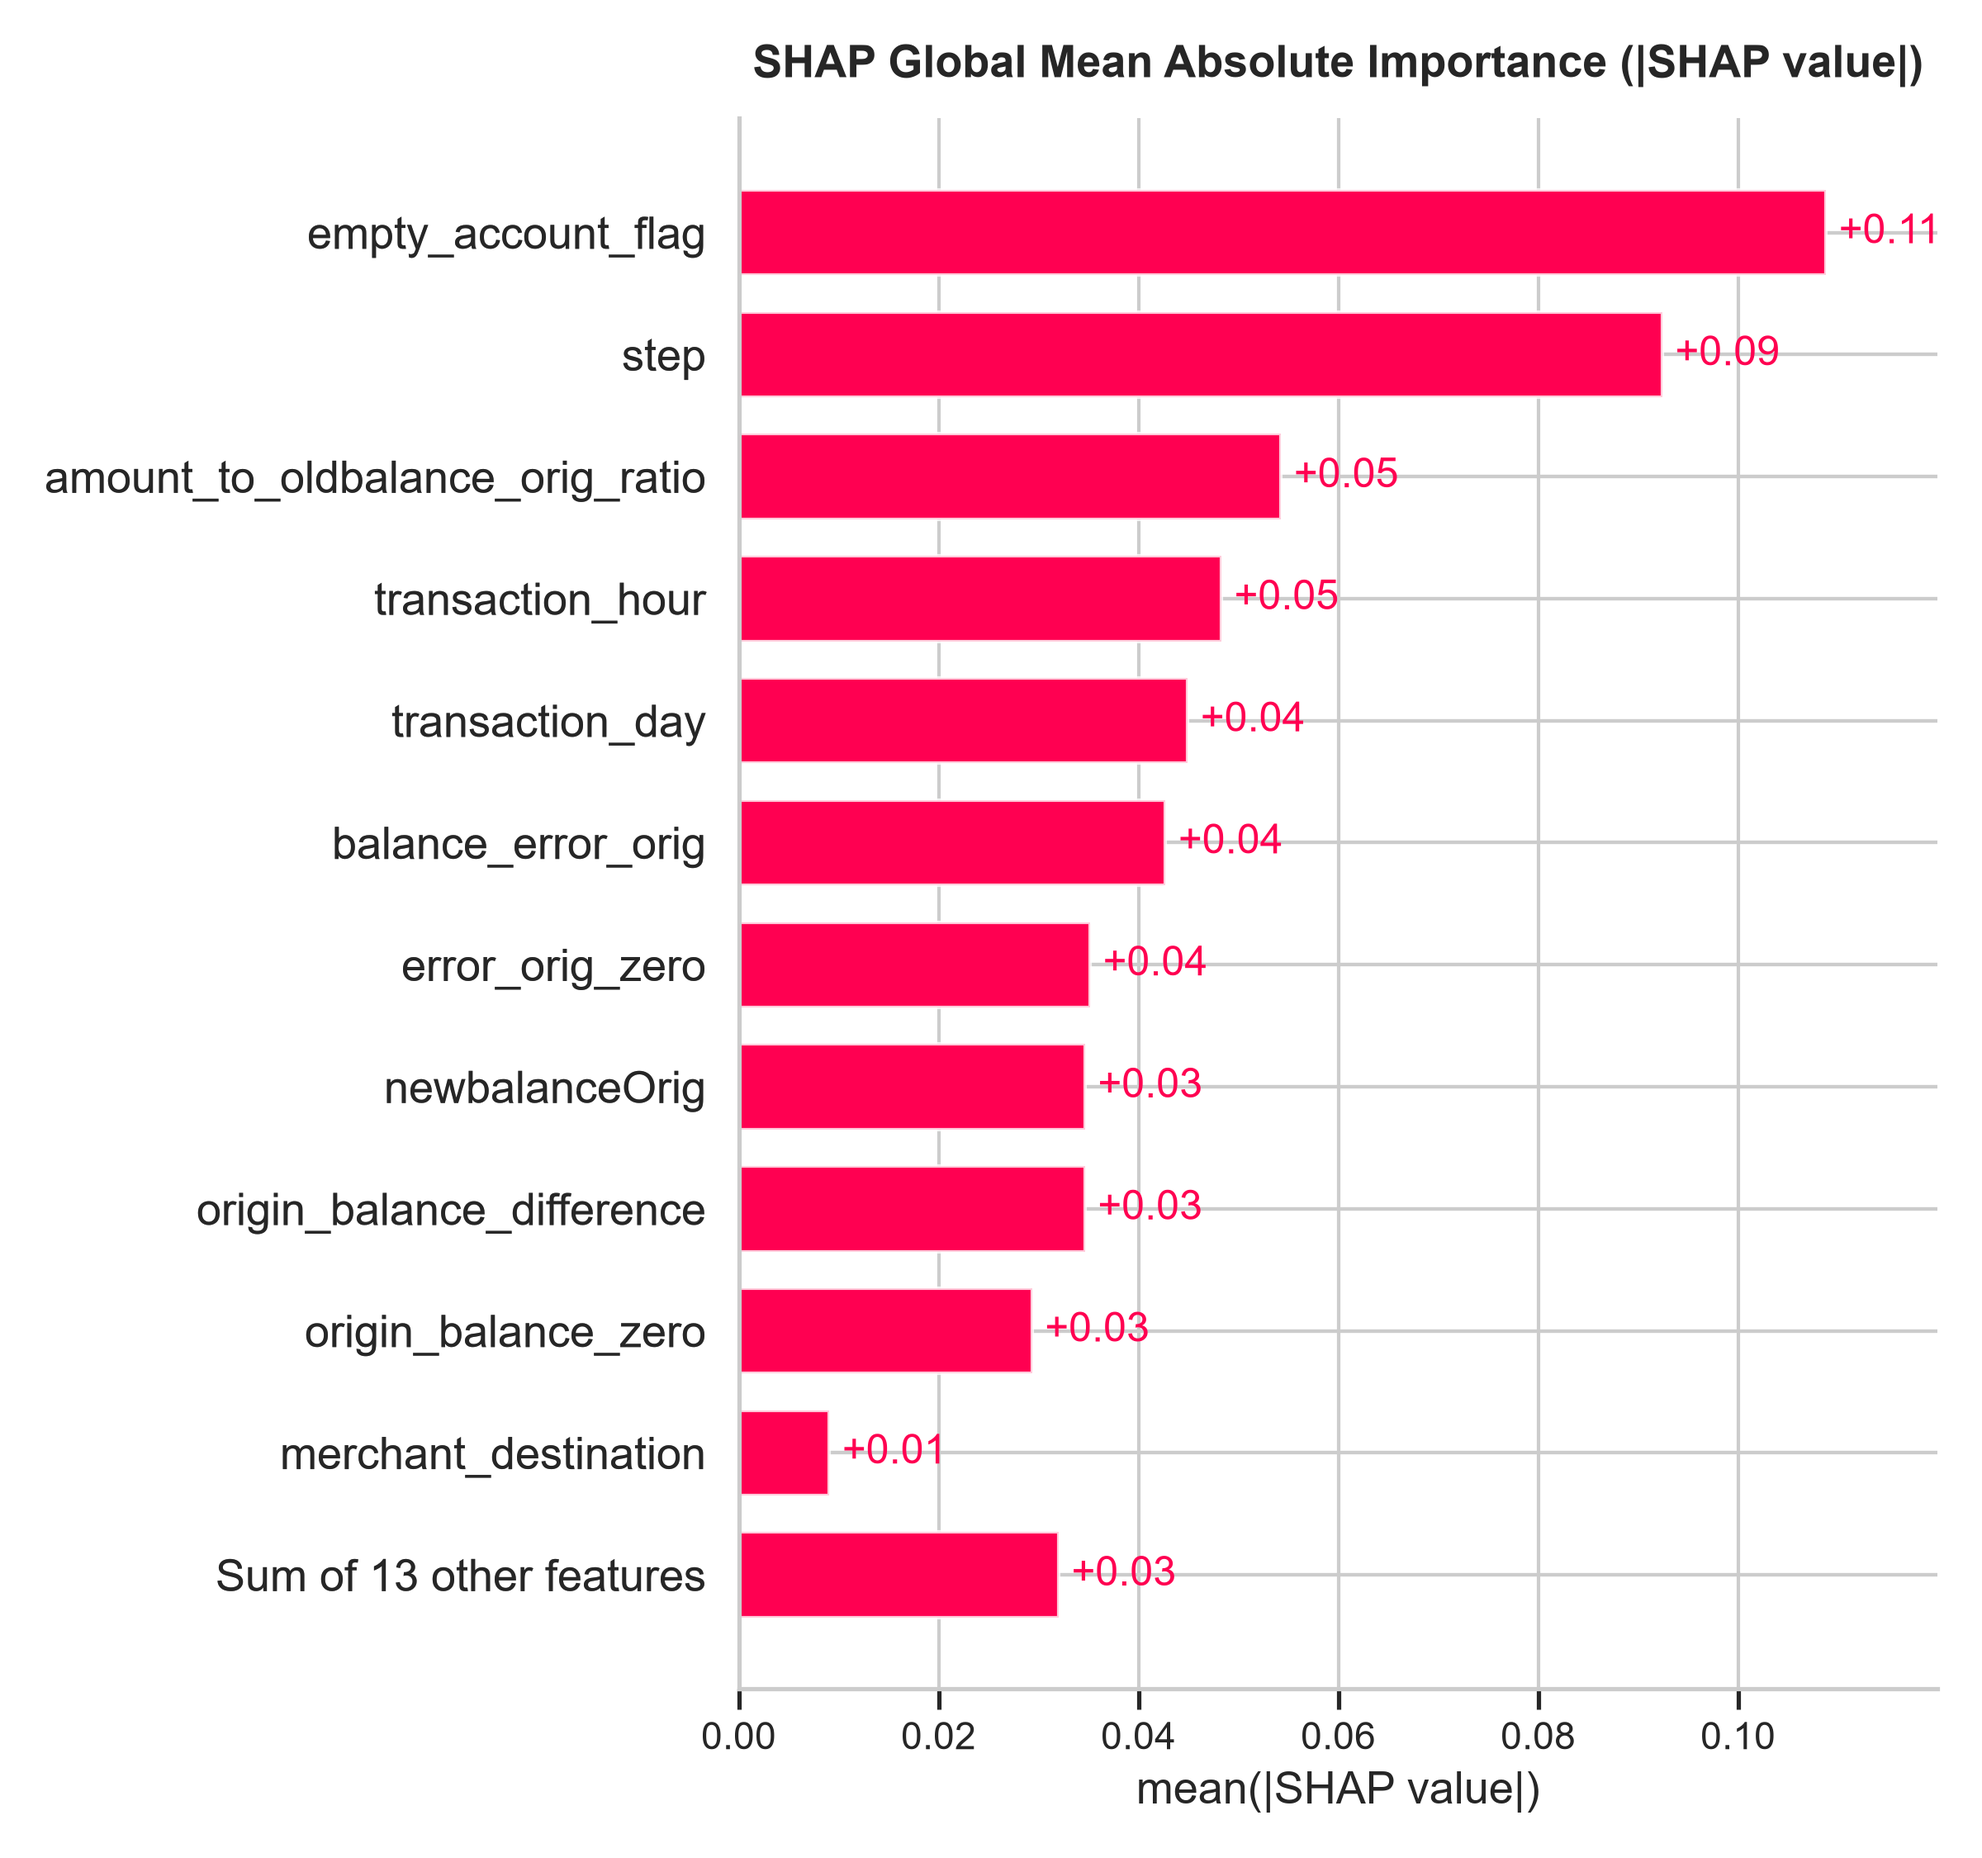
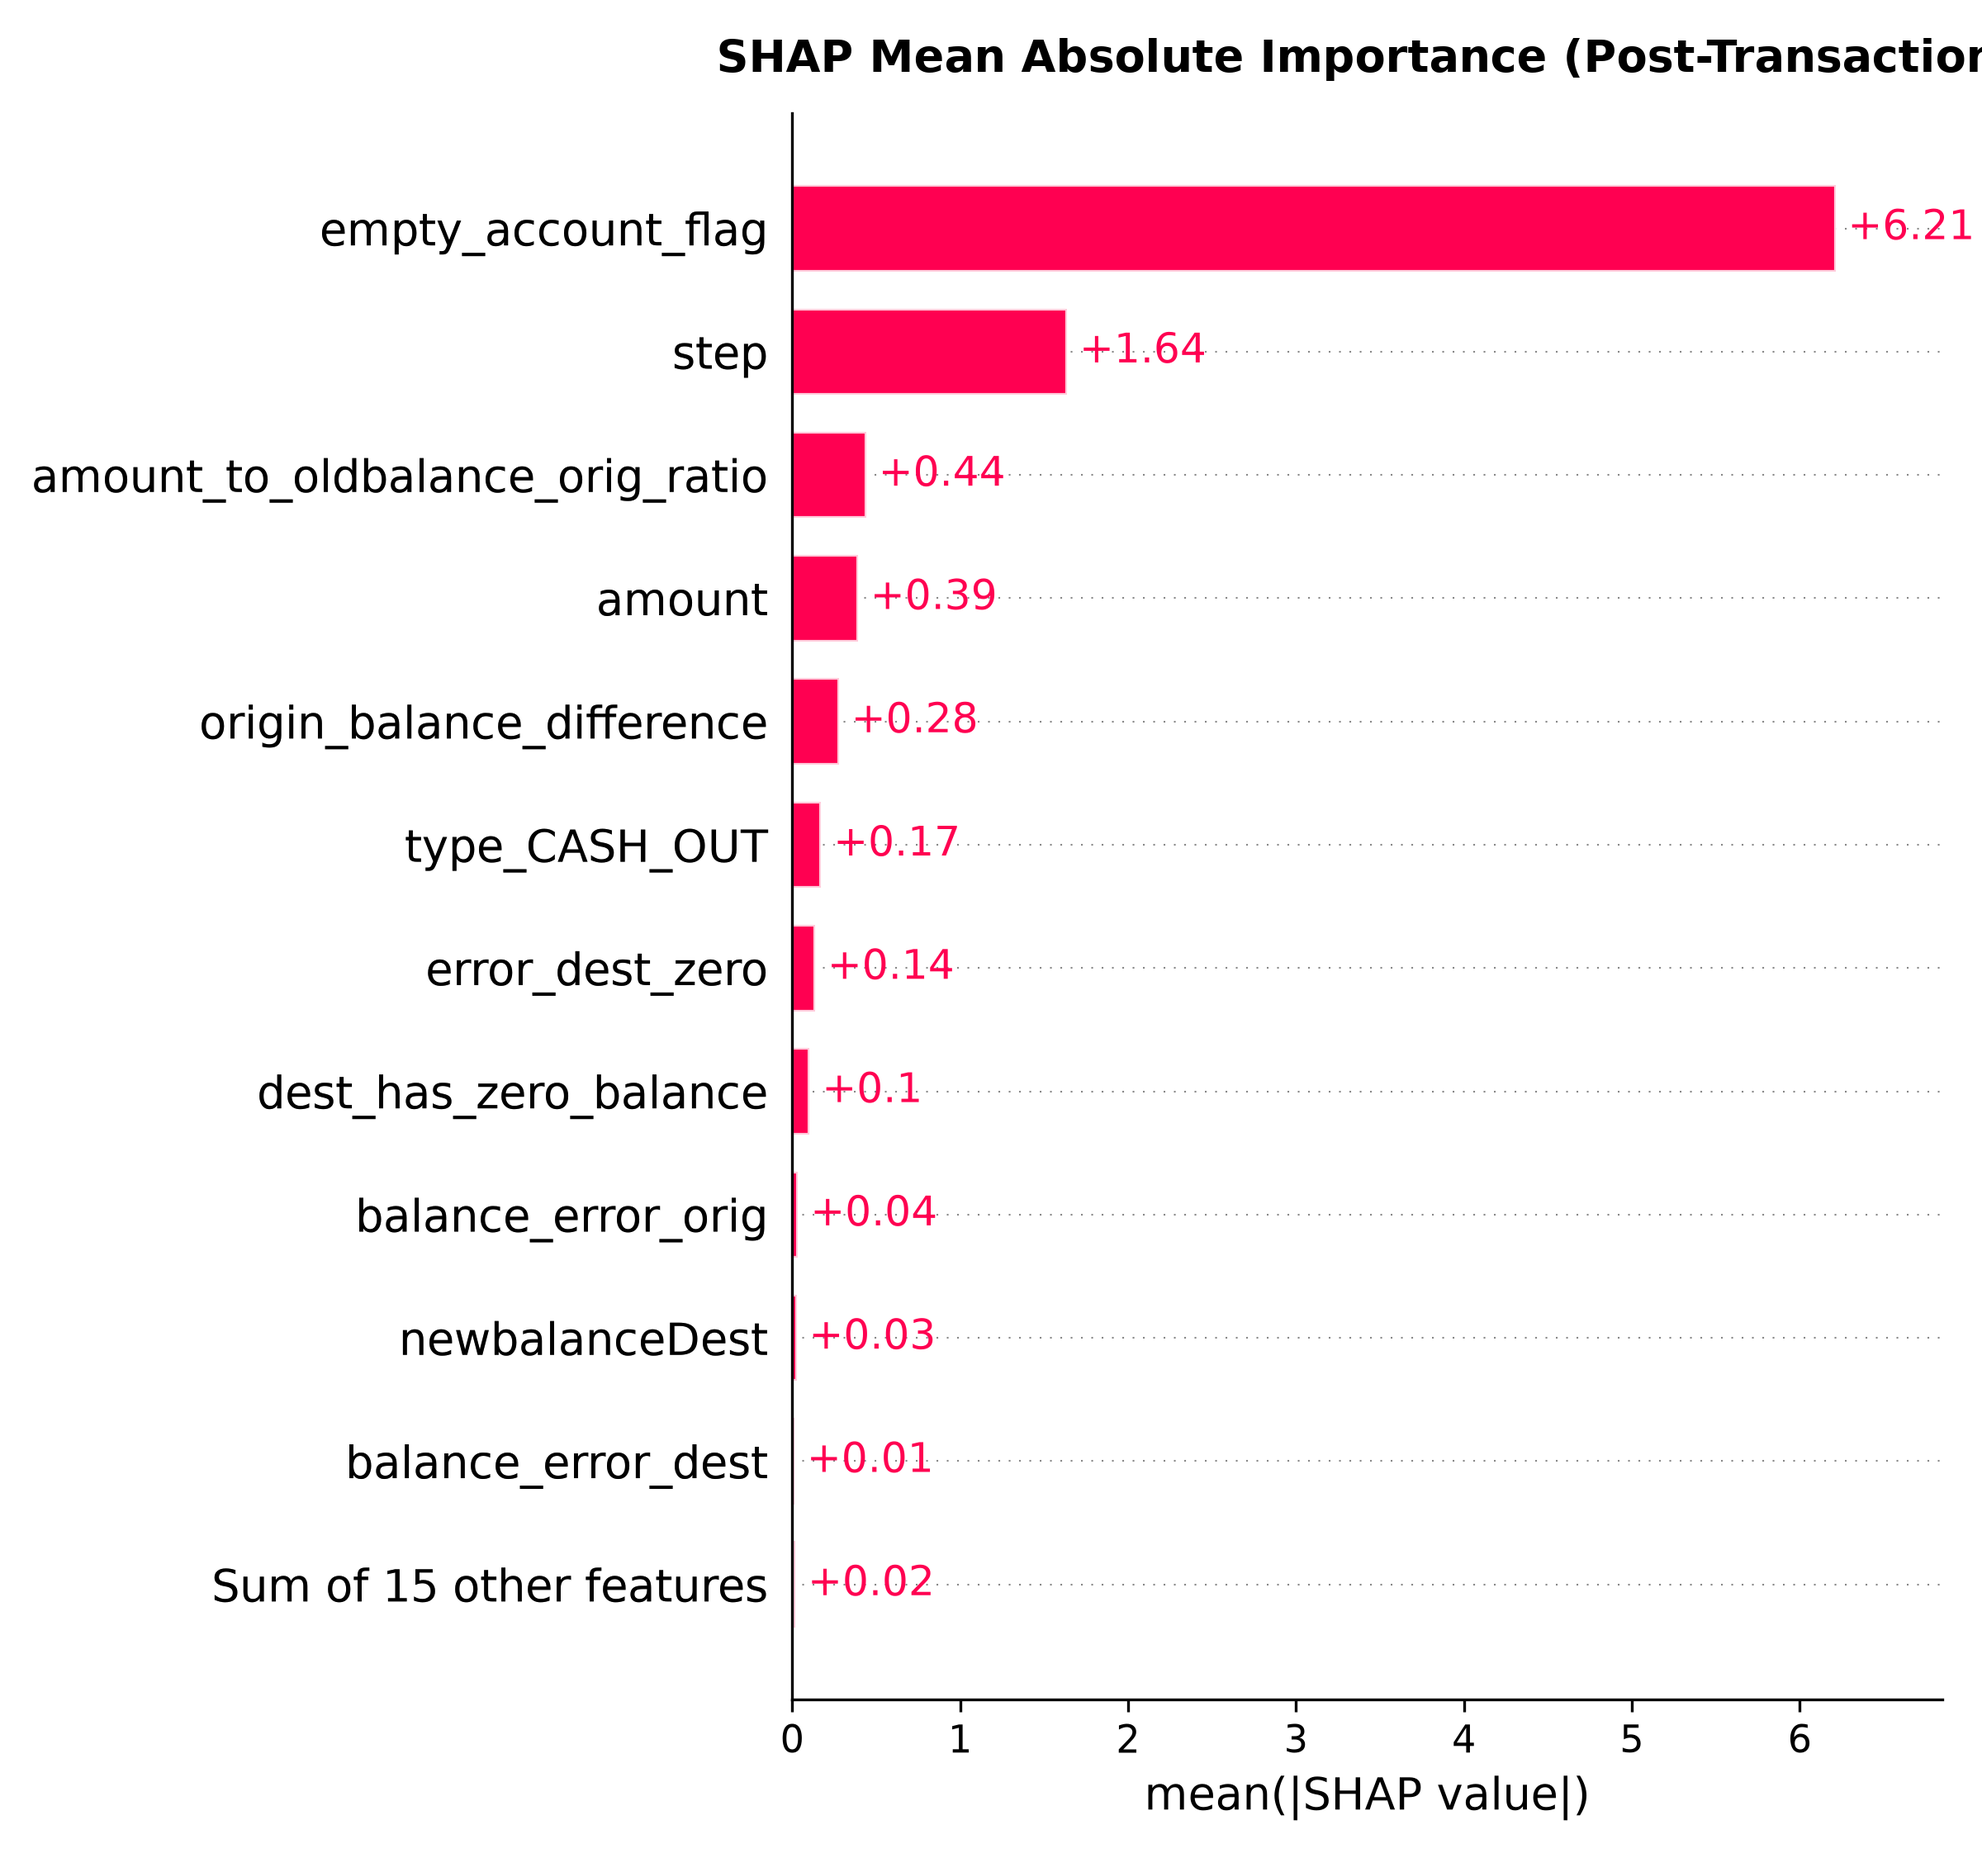
fix(dashboard): enable distinct Pre/Post SHAP figures and dynamic real-time financial charts

diff --git a/dashboard/app.py b/dashboard/app.py
@@ -29,6 +29,8 @@ try:
         create_type_fraud_bar,
         create_hourly_trend_line,
         create_risk_gauge,
+        create_dynamic_financial_breakdown_chart,
+        create_dynamic_financial_scenario_comparison_chart,
     )
     from dashboard.utils import (
         load_model_artifacts,
@@ -590,22 +592,27 @@ elif navigation == "🧠 Explainable AI (SHAP)":
     is_pre = "Pre" in shap_mode
     mode_str = "pre" if is_pre else "post"
 
+    if is_pre:
+        st.info("⚡ **Pre-Transaction Model (Random Forest, 16 Features):** Explains real-time in-flight risk decisions using only features available prior to settlement (e.g. transfer amount, origin balance, merchant status, empty account intent).")
+    else:
+        st.info("🔍 **Post-Transaction Model (XGBoost, 26 Features):** Explains post-clearing forensic audit decisions incorporating ledger discrepancies, post-settlement balance changes, and settlement error deltas.")
+
     col_s1, col_s2 = st.columns(2)
     with col_s1:
-        st.markdown(f"#### Global Feature Impact Beeswarm ({mode_str.capitalize()})")
+        st.markdown(f"#### Global Feature Impact Beeswarm ({mode_str.upper()})")
         beeswarm_path = os.path.join(PROJECT_ROOT, "reports", "figures", f"20_shap_summary_{mode_str}.png")
         if not os.path.exists(beeswarm_path):
             beeswarm_path = os.path.join(PROJECT_ROOT, "reports", "figures", "20_shap_summary.png")
         if os.path.exists(beeswarm_path):
-            st.image(beeswarm_path, use_container_width=True)
+            st.image(beeswarm_path, caption=f"SHAP Summary Beeswarm ({mode_str.upper()} Model)", use_container_width=True)
 
     with col_s2:
-        st.markdown(f"#### Mean Absolute Feature Importance ({mode_str.capitalize()})")
+        st.markdown(f"#### Mean Absolute Feature Importance ({mode_str.upper()})")
         bar_path = os.path.join(PROJECT_ROOT, "reports", "figures", f"21_shap_importance_{mode_str}.png")
         if not os.path.exists(bar_path):
             bar_path = os.path.join(PROJECT_ROOT, "reports", "figures", "21_shap_feature_importance_bar.png")
         if os.path.exists(bar_path):
-            st.image(bar_path, use_container_width=True)
+            st.image(bar_path, caption=f"SHAP Feature Importance ({mode_str.upper()} Model)", use_container_width=True)
 
     st.markdown("---")
     st.markdown("#### Individual Transaction Waterfall Attributions")
@@ -615,14 +622,14 @@ elif navigation == "🧠 Explainable AI (SHAP)":
         if not os.path.exists(fraud_wf):
             fraud_wf = os.path.join(PROJECT_ROOT, "reports", "figures", "22_shap_individual_fraud_waterfall.png")
         if os.path.exists(fraud_wf):
-            st.image(fraud_wf, caption=f"SHAP Waterfall: High-Risk Fraud ({mode_str.capitalize()})", use_container_width=True)
+            st.image(fraud_wf, caption=f"SHAP Waterfall: High-Risk Fraud ({mode_str.upper()})", use_container_width=True)
 
     with wf2:
         legit_wf = os.path.join(PROJECT_ROOT, "reports", "figures", f"23_shap_waterfall_legit_{mode_str}.png")
         if not os.path.exists(legit_wf):
             legit_wf = os.path.join(PROJECT_ROOT, "reports", "figures", "23_shap_individual_legit_waterfall.png")
         if os.path.exists(legit_wf):
-            st.image(legit_wf, caption=f"SHAP Waterfall: Legitimate Transaction ({mode_str.capitalize()})", use_container_width=True)
+            st.image(legit_wf, caption=f"SHAP Waterfall: Legitimate Transaction ({mode_str.upper()})", use_container_width=True)
 
 
 # ==============================================================================
@@ -676,14 +683,35 @@ elif navigation == "💰 Financial Impact Analysis":
         render_metric_card("Missed Fraud Exposure", f"${missed_fraud_amt:,.2f}", "Capital loss from false negatives", "#E63946")
 
     st.markdown("---")
-    st.markdown("### 📈 Enterprise Scenario Breakdown")
-    f_chart1 = os.path.join(PROJECT_ROOT, "reports", "figures", "24_financial_impact_breakdown.png")
-    f_chart2 = os.path.join(PROJECT_ROOT, "reports", "figures", "25_financial_scenarios.png")
+    st.markdown("### 📈 Live Dynamic Enterprise Scenario Breakdown")
+    st.caption("⚡ These interactive charts dynamically recalculate in real-time as you adjust the SLA parameters in the sidebar.")
 
     f1, f2 = st.columns(2)
     with f1:
-        if os.path.exists(f_chart1):
-            st.image(f_chart1, use_container_width=True)
+        fig_breakdown = create_dynamic_financial_breakdown_chart(
+            gross_prevented=gross_prevented,
+            total_review_cost=total_review_cost,
+            friction_cost=friction_cost,
+            net_benefit=net_benefit,
+            missed_fraud_amt=missed_fraud_amt,
+        )
+        st.plotly_chart(fig_breakdown, use_container_width=True)
+
     with f2:
-        if os.path.exists(f_chart2):
-            st.image(f_chart2, use_container_width=True)
+        fig_scenarios = create_dynamic_financial_scenario_comparison_chart(
+            custom_benefit=net_benefit,
+            custom_cost=total_review_cost + friction_cost,
+            custom_recovery_pct=recovery_rate * 100.0,
+        )
+        st.plotly_chart(fig_scenarios, use_container_width=True)
+
+    with st.expander("📄 View Pre-Rendered Academic Benchmark PNG Charts (Static Baseline)"):
+        f_chart1 = os.path.join(PROJECT_ROOT, "reports", "figures", "24_financial_impact_breakdown.png")
+        f_chart2 = os.path.join(PROJECT_ROOT, "reports", "figures", "25_financial_scenarios.png")
+        col_img1, col_img2 = st.columns(2)
+        with col_img1:
+            if os.path.exists(f_chart1):
+                st.image(f_chart1, caption="Baseline Breakdown ($235.4M Test Holdout)", use_container_width=True)
+        with col_img2:
+            if os.path.exists(f_chart2):
+                st.image(f_chart2, caption="Standard 3-Scenario Comparison (80% SLA Base Case)", use_container_width=True)

diff --git a/dashboard/components.py b/dashboard/components.py
@@ -241,3 +241,111 @@ def create_risk_gauge(probability: float) -> go.Figure:
     fig.update_layout(height=240, margin=dict(t=30, b=10, l=20, r=20))
     return fig
 
+
+def create_dynamic_financial_breakdown_chart(
+    gross_prevented: float,
+    total_review_cost: float,
+    friction_cost: float,
+    net_benefit: float,
+    missed_fraud_amt: float,
+) -> go.Figure:
+    """Create an interactive Plotly bar chart dynamically reacting to simulator parameters."""
+    categories = [
+        "Gross Fraud Intercepted",
+        "Operational Review Cost",
+        "FP Customer Friction",
+        "Net Financial Benefit",
+        "Missed Fraud Loss",
+    ]
+    values = [
+        gross_prevented,
+        total_review_cost,
+        friction_cost,
+        net_benefit,
+        missed_fraud_amt,
+    ]
+    colors = [
+        "#2A9D8F",  # Teal green for gross prevented
+        "#E76F51",  # Orange red for review cost
+        "#F4A261",  # Orange for friction cost
+        "#1B4332",  # Deep emerald for net benefit
+        "#E63946",  # Red for missed loss
+    ]
+
+    fig = go.Figure(
+        go.Bar(
+            x=categories,
+            y=values,
+            marker_color=colors,
+            text=[f"${v:,.0f}" for v in values],
+            textposition="auto",
+        )
+    )
+    fig.update_layout(
+        title="Live Financial Impact Breakdown ($ USD)",
+        xaxis_title="Financial Component",
+        yaxis_title="USD ($)",
+        margin=dict(t=40, b=30, l=20, r=20),
+        height=360,
+    )
+    return fig
+
+
+def create_dynamic_financial_scenario_comparison_chart(
+    custom_benefit: float,
+    custom_cost: float,
+    custom_recovery_pct: float,
+) -> go.Figure:
+    """Compare benchmark scenarios with the user's custom live slider configuration."""
+    scenarios = [
+        "High Efficiency (90% Recov)",
+        "Base Case (80% Recov)",
+        "Conservative (70% Recov)",
+        f"⚡ Live Custom ({custom_recovery_pct:.0f}% Recov)",
+    ]
+    net_benefits = [
+        211884067.54,
+        188337610.03,
+        164787747.53,
+        custom_benefit,
+    ]
+    op_costs = [
+        3405.00,
+        6810.00,
+        13620.00,
+        custom_cost,
+    ]
+
+    fig = go.Figure()
+    fig.add_trace(
+        go.Bar(
+            name="Net Financial Benefit ($)",
+            x=scenarios,
+            y=net_benefits,
+            marker_color=["#52B788", "#2A9D8F", "#1D3557", "#0077B6"],
+            text=[f"${v/1e6:,.1f}M" for v in net_benefits],
+            textposition="auto",
+        )
+    )
+    fig.add_trace(
+        go.Bar(
+            name="Operational Review Cost ($)",
+            x=scenarios,
+            y=op_costs,
+            marker_color="#F4A261",
+            text=[f"${v:,.0f}" for v in op_costs],
+            textposition="auto",
+        )
+    )
+
+    fig.update_layout(
+        title="Enterprise Scenarios vs. Your Live Custom Configuration",
+        barmode="group",
+        xaxis_title="Scenario",
+        yaxis_title="USD ($)",
+        margin=dict(t=40, b=30, l=20, r=20),
+        height=360,
+        legend=dict(orientation="h", yanchor="bottom", y=1.02, xanchor="right", x=1),
+    )
+    return fig
+
